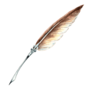
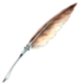
added better quill movement along with the texts

diff --git a/components/AncientWriterInput.tsx b/components/AncientWriterInput.tsx
@@ -123,15 +123,15 @@ export default function AncientBottleMessage({ onSubmit, onClose }: { onSubmit: 
                             initial={{ scale: 0.9, opacity: 0 }}
                             animate={{ scale: 1, opacity: 1 }}
                             exit={{ scale: 0.8, opacity: 0, transition: { duration: 0.5 } }}
-                            className="relative w-[600px] h-[850px]"
+                            className="relative w-[600px] h-[850px] overflow-hidden"
                         >
-                            <button onClick={onClose} className="absolute -top-12 right-0 text-white/80 hover:text-white transition-colors">
+                            <button onClick={onClose} className="fixed top-12 right-42 text-white/80 hover:text-white transition-colors">
                                 <X size={32} />
                             </button>
 
                             <div
                                 ref={textContainerRef}
-                                className="relative w-full h-full"
+                                className="relative w-full h-full overflow-hidden"
                                 style={{
                                     backgroundImage: `url(${ASSETS.paperTexture})`,
                                     backgroundSize: '100% 100%',
@@ -147,21 +147,21 @@ export default function AncientBottleMessage({ onSubmit, onClose }: { onSubmit: 
                                 />
 
                                 <div className="absolute inset-0 w-full h-full px-20 py-36 z-0 whitespace-pre-wrap break-words font-handwriting text-4xl font-semibold leading-relaxed text-[#3e2723]">
-                                    {text}
+                                    {text}<span ref={endMarkerRef}></span>
                                 </div>
 
                                 <div
                                     ref={mirrorRef}
-                                    className="absolute inset-0 w-full h-full px-13 py-8 -z-10 whitespace-pre-wrap break-words font-handwriting text-4xl leading-relaxed opacity-0 pointer-events-none"
+                                    className="absolute inset-0 w-full h-full px-14 py-5 -z-10 whitespace-pre-wrap break-words font-handwriting text-4xl leading-relaxed opacity-0 pointer-events-none"
                                 >
-                                    {text}<span ref={endMarkerRef}>|</span>
+                                    {text}
                                 </div>
 
                                 <motion.div
                                     className="absolute z-20 pointer-events-none origin-bottom-left"
                                     animate={{
-                                        x: quillPos.x + 40,
-                                        y: quillPos.y + 40,
+                                        x: quillPos.x + 13,
+                                        y: quillPos.y - 80,
                                     }}
                                     transition={{ type: "tween", ease: "linear", duration: 0.05 }}
                                 >

diff --git a/app/page.tsx b/app/page.tsx
@@ -4,6 +4,7 @@ import OceanCanvas from "@/components/OceanCanvas";
 import AncientWriterInput from "@/components/AncientWriterInput";
 import { useEffect, useState } from "react";
 import LetterModal from "@/components/LetterModal";
+import { useSearchParams } from "next/navigation";
 
 export type Bottle = {
   id: string;
@@ -12,6 +13,8 @@ export type Bottle = {
 }
 
 export default function Home() {
+  const search = useSearchParams()
+  const seacretId = search.get('seacretId')
   const [bottles, setBottles] = useState<Bottle[]>([])
 
   const [openedBottle, setOpenedBottle] = useState<Bottle | null>(null)
@@ -19,7 +22,7 @@ export default function Home() {
 
   useEffect(() => {
     (async () => {
-      const res= await fetch('/api/letters')
+      const res = await fetch('/api/letters')
 
       const items = await res.json()
 
@@ -27,9 +30,15 @@ export default function Home() {
     })()
   }, [])
 
+  useEffect(() => {
+    if (seacretId || seacretId !== '') {
+      openBottle(bottles?.filter(b => b.id == seacretId)[0])
+    }
+  }, [seacretId])
+
   const openBottle = (bottle: Bottle) => {
     // You can use your existing LetterModal here
-    setOpenedBottle(bottle) 
+    setOpenedBottle(bottle)
   }
 
   const handleLetterSubmit = async (text: string) => {
@@ -54,16 +63,16 @@ export default function Home() {
 
   return (
     <main>
-      <OceanCanvas 
-        bottles={bottles} 
-        onBottleOpen={openBottle} 
-        onStartWriting={() => setIsWriting(true)} 
+      <OceanCanvas
+        bottles={bottles}
+        onBottleOpen={openBottle}
+        onStartWriting={() => setIsWriting(true)}
       />
 
       {isWriting && (
-        <AncientWriterInput 
-            onSubmit={handleLetterSubmit} 
-            onClose={() => setIsWriting(false)} 
+        <AncientWriterInput
+          onSubmit={handleLetterSubmit}
+          onClose={() => setIsWriting(false)}
         />
       )}
 

diff --git a/components/OceanCanvas.tsx b/components/OceanCanvas.tsx
@@ -374,7 +374,7 @@ export default function OceanCanvas({ bottles, onBottleOpen, onStartWriting }: {
           </div>
           <div className="relative flex items-center gap-3 text-[#78350f] font-bold text-xl z-10">
              <Feather className="w-6 h-6 animate-pulse" />
-             <span>Write a Letter</span>
+             <span>Write a Seacret</span>
           </div>
         </div>
       </motion.button>
